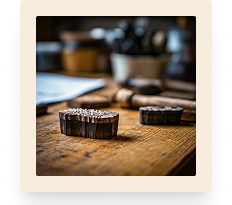
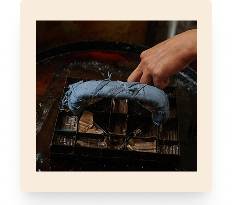
revise image

diff --git a/src/pages/TryOn/components/ResultSection.jsx b/src/pages/TryOn/components/ResultSection.jsx
@@ -6,7 +6,7 @@ export default function ResultSection() {
 
   const fabricLength  = getFabricLength();
   const basePrice     = selectedMotifDetails?.price ?? 0;
-  const pricePerMeter = fabricLength ? Math.round(basePrice / fabricLength) : 0;
+  const pricePerKain = fabricLength ? Math.round(basePrice / fabricLength) : 0;
 
   const generateWaLink = () => {
     const phone = "[phone redacted]";
@@ -82,10 +82,10 @@ export default function ResultSection() {
                          </span>
                      </div>
                      <div className="flex justify-between items-center">
-                         <span className="text-gray-400">Harga per Meter</span>
+                         <span className="text-gray-400">Harga per Kain</span>
                          <span className="font-medium text-white">
                              {selectedMotifDetails && fabricLength != null
-                                 ? `Rp ${pricePerMeter.toLocaleString('id-ID')} / m`
+                                 ? `Rp ${pricePerKain.toLocaleString('id-ID')} / kain`
                                  : '-'}
                          </span>
                      </div>

diff --git a/src/pages/Home/Home.jsx b/src/pages/Home/Home.jsx
@@ -38,7 +38,7 @@ const homeHeritage = {
   tagline: "Merajut Warisan Selama 7 Tahun",
   // headline: "Our Journey to Excellence",
   bodyText: [
-    "Di Dadap Batik, setiap benang menceritakan kisah tentang kesabaran dan ketelitian. Sesuatu yang awalnya hanya sebuah usaha kecil keluarga di Jawa Tengah, kini telah berkembang menjadi instansi tekstil di Indonesia yang bergengsi, dan kini secara resmi diakui sebagai badan hukum berbentuk PT",
+    "Di Dadap Batik, setiap benang menceritakan kisah tentang kesabaran dan ketelitian. Sesuatu yang awalnya hanya sebuah usaha kecil keluarga di Jawa Timur, kini telah berkembang menjadi instansi tekstil di Indonesia yang bergengsi, dan kini secara resmi diakui sebagai badan hukum berbentuk PT",
     "Keahlian kami berakar pada tradisi canting, di mana malam dan pewarna berpadu menciptakan motif yang memanggul makna filosofis: kehidupan, kemakmuran, dan penghormatan.",
   ],
   features: [